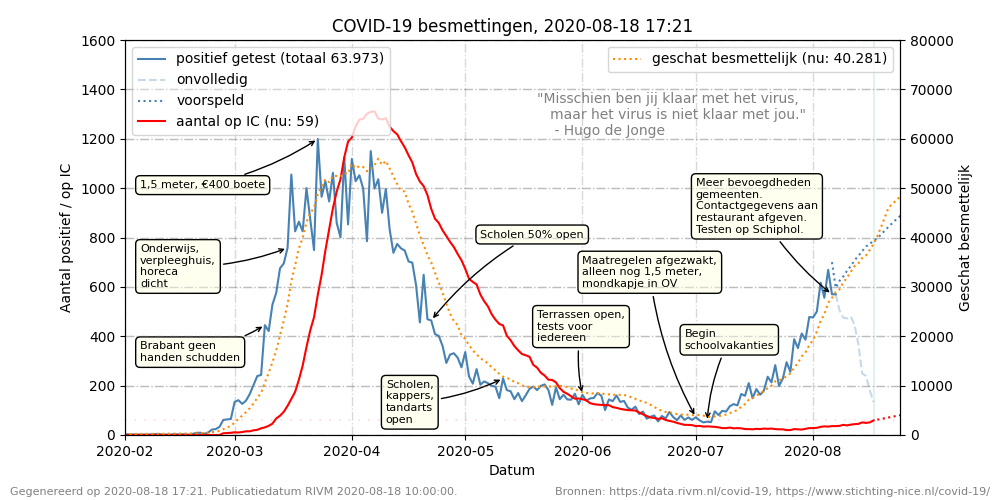
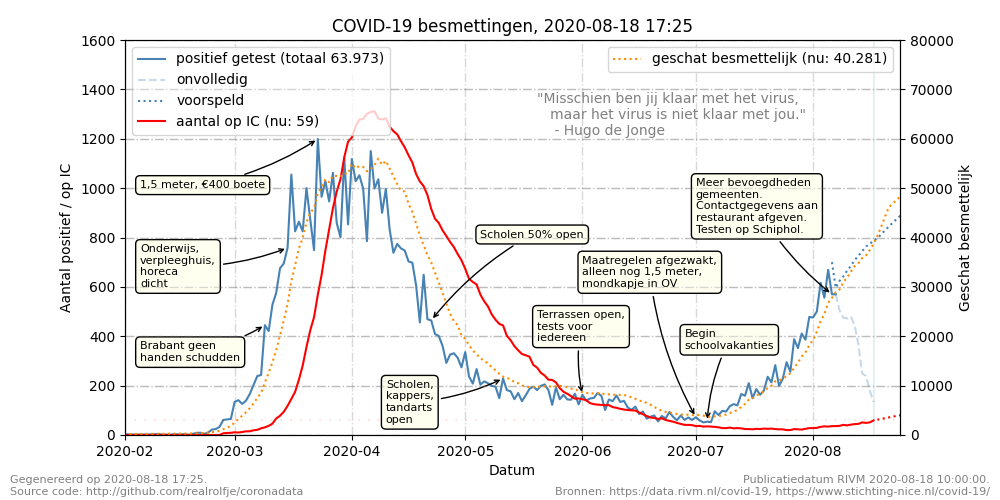
Ran getDailyExcelData

Changed region(s): [[0.0, 0.93, 0.465, 0.99], [0.744, 0.93, 0.992, 0.99], [0.682, 0.03, 0.713, 0.06]]

diff --git a/scripts/createGraph.py b/scripts/createGraph.py
@@ -310,10 +310,10 @@ gegenereerd_op=datetime.datetime.now().strftime("%Y-%m-%d %H:%M")
 
 plt.title('COVID-19 besmettingen, '+gegenereerd_op)
 
-footerleft="Gegenereerd op "+gegenereerd_op+". Publicatiedatum RIVM "+filedate+"."
+footerleft="Gegenereerd op "+gegenereerd_op+".\nSource code: http://github.com/realrolfje/coronadata"
 plt.figtext(0.01, 0.01, footerleft, ha="left", fontsize=8, color="gray")
 
-footerright="Bronnen: https://data.rivm.nl/covid-19, https://www.stichting-nice.nl/covid-19/"
+footerright="Publicatiedatum RIVM "+filedate+".\nBronnen: https://data.rivm.nl/covid-19, https://www.stichting-nice.nl/covid-19/"
 plt.figtext(0.99, 0.01, footerright, ha="right", fontsize=8, color="gray")
 
 
